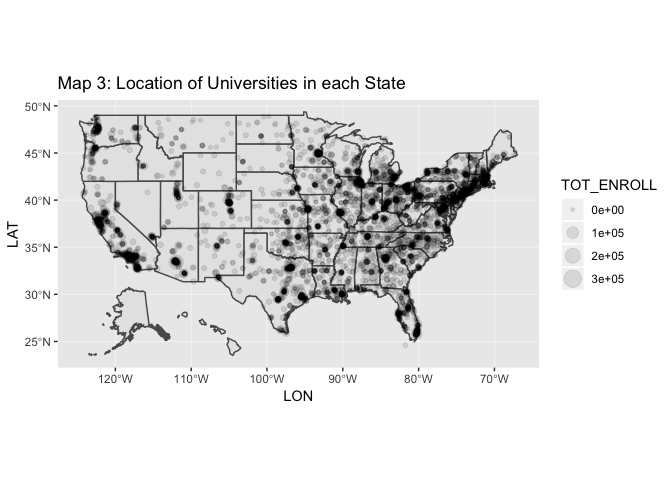
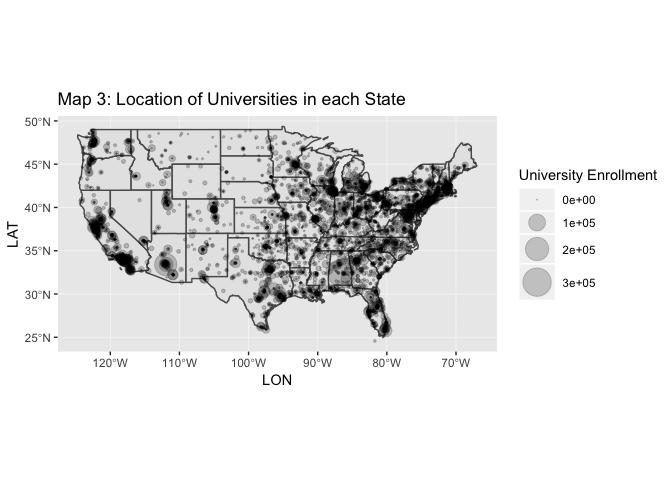
finalizing

Changed region(s): [[0.0312, 0.1562, 1.0, 0.8438], [0.0312, 0.5, 0.0938, 0.5312]]

diff --git a/hw7.md b/hw7.md
@@ -3,6 +3,10 @@ Practicing Mapping
 Abby Bergman
 11/14/2018
 
-![](hw7_files/figure-markdown_github/unnamed-chunk-5-1.png)![](hw7_files/figure-markdown_github/unnamed-chunk-5-2.png)![](hw7_files/figure-markdown_github/unnamed-chunk-5-3.png) For this assignment, I was interested in exploring the density of universities in different states. At first, I created several maps to see which one would provide the ideal way to visualize my data. The Map 1 shows the contiguous United States, colored and overlayed with points. The colors show the total number of universities in a given state, split into four groups. The points show the locations of universities, with size of the point denoting total enrollment of the university. According to this map, states including California, Texas and several eastern states.
+![](hw7_files/figure-markdown_github/unnamed-chunk-5-1.png)![](hw7_files/figure-markdown_github/unnamed-chunk-5-2.png)![](hw7_files/figure-markdown_github/unnamed-chunk-5-3.png)
 
-This map draws an interesting contrast with the Map 2, which shows the number of universities in each state divided by state population, because the states that have the highest ratio of universities to population occurs in states such as Montana and Maine.
+For this assignment, I was interested in exploring the density of universities in different states. At first, I created several maps to see which one would provide the ideal way to visualize my data. The [Map 1](https://github.com/abbygirlrose/hw07/blob/master/hw7_files/figure-markdown_github/unnamed-chunk-5-1.png) shows the contiguous United States, colored and overlayed with points. The colors show the total number of universities in a given state, split into four groups. The points show the locations of universities, with size of the point denoting total enrollment of the university. According to this map, states including California, Texas and several eastern states.
+
+This map draws an interesting contrast with the [Map 2](https://github.com/abbygirlrose/hw07/blob/master/hw7_files/figure-markdown_github/unnamed-chunk-5-2.png), which shows the number of universities in each state divided by state population, because the states that have the highest ratio of universities to population occurs in states such as Montana and Maine. I also chose to display [map 3](https://github.com/abbygirlrose/hw07/blob/master/hw7_files/figure-markdown_github/unnamed-chunk-5-3.png) which only shows the university location (points) and total enrollment (point size).
+
+The range of point sizes was chosen so that differences in enrollment size would be clearly defined. I chose to display the number of universities per state as cut intervals because when they were initially displayed as continuous, it was difficult to distinguish between the values. Showing them in cut intervals made it easier to visualize states as having high, moderate, or low numbers of universities.

diff --git a/README.md b/README.md
@@ -1,7 +1,9 @@
 # hw07
 
-#Links to Homework 7 Files:
+##Links to Homework 7 Files:
 
 [Homework 7 Rmd](https://github.com/abbygirlrose/hw07/blob/master/hw7.Rmd)
+
 [Homework 7 md](https://github.com/abbygirlrose/hw07/blob/master/hw7.md)
+
 [Files](https://github.com/abbygirlrose/hw07/tree/master/hw7_files/figure-markdown_github)
